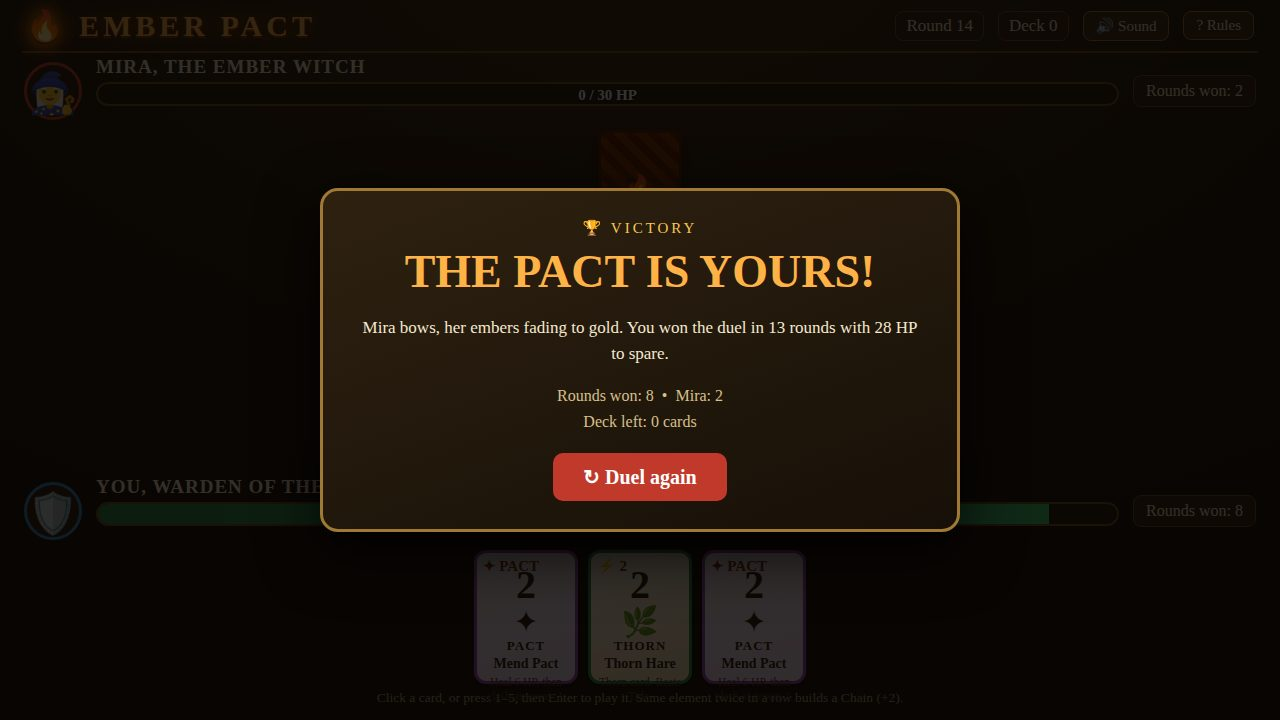
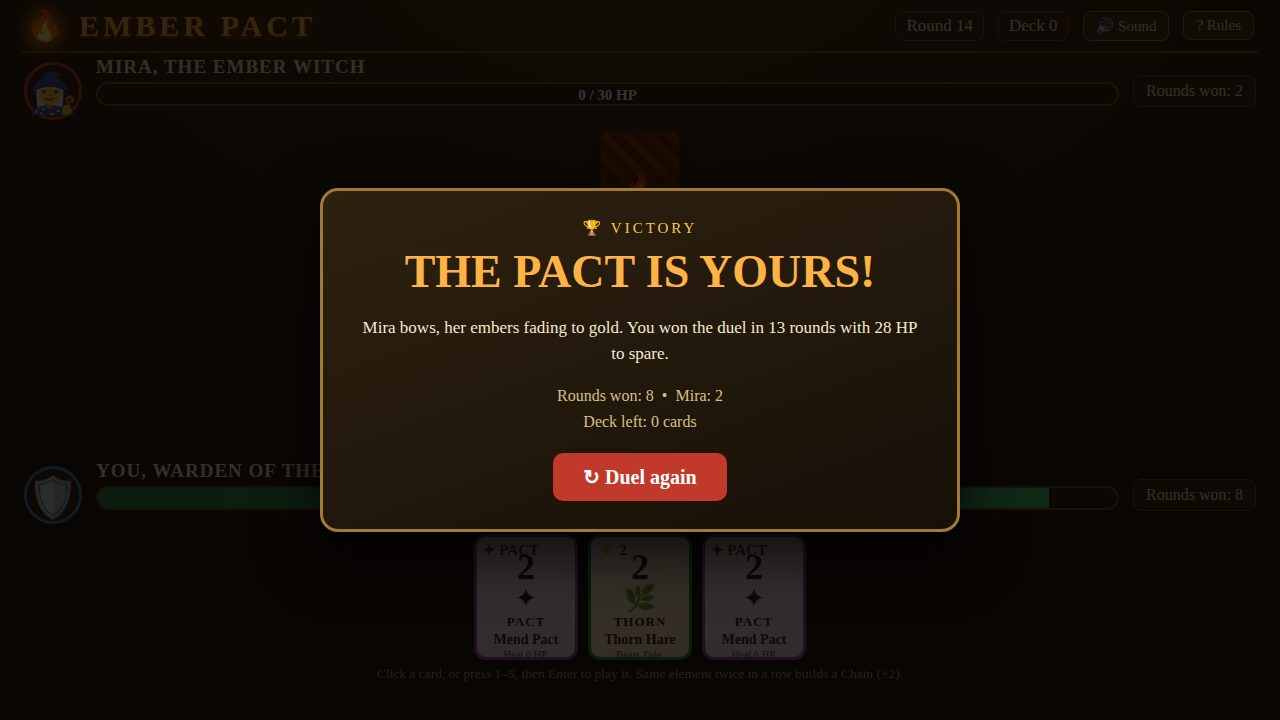
Polish for rank 1: play shot as cover, element-edge + ward-block clash lines, chain label, tighter card text

diff --git a/game/src/render.js b/game/src/render.js
@@ -2,7 +2,7 @@
 // Every card is a real DOM element with a readable power, element and cost text,
 // so the game stays legible at thumbnail size in a screenshot.
 
-import { ELEMENTS, describeCard } from './cards.js';
+import { ELEMENTS, describeCard, elementAdvantage } from './cards.js';
 
 const $ = (id) => document.getElementById(id);
 
@@ -41,9 +41,9 @@ export function renderAll(state, ui) {
   $('youScore').textContent = `Rounds won: ${state.you.wins}`;
   $('foeScore').textContent = `Rounds won: ${state.foe.wins}`;
   $('youStatus').textContent = state.you.ward ? '🛡 Ward up — next damage blocked'
-    : state.you.chainCount >= 2 ? `⛓ Chain x${state.you.chainCount} ${ELEMENTS[state.you.chainElement].name} — +2 next round` : '';
+    : state.you.chainCount >= 2 ? `Chain x${state.you.chainCount} ${ELEMENTS[state.you.chainElement].name} — +2 next round` : '';
   $('foeStatus').textContent = state.foe.ward ? '🛡 Ward up — next damage blocked'
-    : state.foe.chainCount >= 2 ? `⛓ Chain x${state.foe.chainCount} ${ELEMENTS[state.foe.chainElement].name} — +2 next round` : '';
+    : state.foe.chainCount >= 2 ? `Chain x${state.foe.chainCount} ${ELEMENTS[state.foe.chainElement].name} — +2 next round` : '';
   $('foeTell').textContent = ui.tell || '';
 
   const youHand = $('youHand');
@@ -76,7 +76,13 @@ export function showPlayed(state, report, ui) {
   youSlot.appendChild(cardElement(report.youCard, { played: true }));
   const winnerEl = report.winner === 'you' ? youSlot.firstChild : report.winner === 'foe' ? foeSlot.firstChild : null;
   if (winnerEl) winnerEl.classList.add('winner-glow');
-  $('clashDetail').textContent = `${report.youPower} vs ${report.foePower} — ${report.winner === 'you' ? 'You take the round!' : report.winner === 'foe' ? 'Mira takes the round!' : 'Dead heat!'}`;
+  const edge = elementAdvantage(report.youCard, report.foeCard);
+  const edgeText = edge > 0 ? ` — ${ELEMENTS[report.youCard.element].name} beats ${ELEMENTS[report.foeCard.element].name} (+3)!`
+    : edge < 0 ? ` — ${ELEMENTS[report.foeCard.element].name} beats ${ELEMENTS[report.youCard.element].name} (+3)!` : '';
+  $('clashDetail').textContent = `${report.youPower} vs ${report.foePower}${edgeText} ${report.winner === 'you' ? 'You take the round!' : report.winner === 'foe' ? 'Mira takes the round!' : 'Dead heat!'}`;
+  const chainSide = state.you.chainCount >= 2 ? 'you' : state.foe.chainCount >= 2 ? 'foe' : null;
+  $('chainLabel').textContent = chainSide === 'you' ? `Chain x${state.you.chainCount} ${ELEMENTS[state.you.chainElement].name} — +2 next round`
+    : chainSide === 'foe' ? `Mira's Chain x${state.foe.chainCount} ${ELEMENTS[state.foe.chainElement].name} — +2 next round` : '';
   ui.logLine = report.lines ? report.lines[0] : '';
   renderAll(state, ui);
 }

diff --git a/game/style.css b/game/style.css
@@ -34,7 +34,7 @@ body {
 .hand { display: flex; gap: 10px; justify-content: center; min-height: 122px; padding: 4px 0; }
 .foe-hand .card { transform: scale(.8); transform-origin: top center; }
 .card {
-  width: 104px; height: 134px; border-radius: 12px; border: 3px solid #d8c08a;
+  width: 104px; height: 126px; border-radius: 12px; border: 3px solid #d8c08a;
   background: linear-gradient(160deg, #fff8e7 0%, #f3e2b8 100%); color: #241a0c;
   display: flex; flex-direction: column; align-items: center; padding: 6px 4px;
   cursor: pointer; position: relative; user-select: none;
@@ -48,11 +48,11 @@ body {
 .card.back:hover { transform: none; box-shadow: 0 4px 10px rgba(0,0,0,.55); }
 .card.back .back-mark { font-size: 34px; margin-top: 44px; }
 .card .cost { position: absolute; top: 4px; left: 6px; font-size: 15px; font-weight: bold; color: #7a2e00; }
-.card .power { font-size: 40px; font-weight: bold; line-height: 1; margin-top: 6px; }
-.card .element { font-size: 30px; line-height: 1.1; }
+.card .power { font-size: 36px; font-weight: bold; line-height: 1; margin-top: 6px; }
+.card .element { font-size: 26px; line-height: 1.1; }
 .card .elname { font-size: 13px; font-weight: bold; letter-spacing: 1px; text-transform: uppercase; }
 .card .cardname { font-size: 14px; font-weight: bold; margin-top: 2px; text-align: center; }
-.card .cardtext { font-size: 11.5px; line-height: 1.25; text-align: center; color: #4a3520; margin-top: 3px; padding: 0 3px; }
+.card .cardtext { font-size: 10.5px; line-height: 1.2; text-align: center; color: #4a3520; margin-top: 1px; padding: 0 3px; }
 .card.el-ember { border-color: #e74c3c; }
 .card.el-tide { border-color: #2e86c1; }
 .card.el-thorn { border-color: #1e8449; }
@@ -60,7 +60,7 @@ body {
 
 #arena { display: flex; align-items: center; justify-content: center; gap: 26px; padding: 2px 0; }
 .played-slot {
-  width: 150px; height: 176px; border: 3px dashed #6b4a1f; border-radius: 14px;
+  width: 150px; height: 168px; border: 3px dashed #6b4a1f; border-radius: 14px;
   display: flex; align-items: center; justify-content: center; background: rgba(0,0,0,.25);
 }
 .played-slot .card { transform: scale(1.05); cursor: default; }

diff --git a/game/src/cards.js b/game/src/cards.js
@@ -9,10 +9,10 @@ export const ELEMENTS = {
 };
 
 export const PACT_CARDS = [
-  { id: 'mend', kind: 'pact', name: 'Mend Pact', power: 2, element: null, text: 'Heal 6 HP, then clash at power 2.' },
-  { id: 'ward', kind: 'pact', name: 'Ward Pact', power: 3, element: null, text: 'Block the next damage you would take.' },
-  { id: 'surge', kind: 'pact', name: 'Surge Pact', power: 4, element: null, text: 'Double your power this round.' },
-  { id: 'snatch', kind: 'pact', name: 'Snatch Pact', power: 5, element: null, text: 'If you win the round, draw 2 cards.' },
+  { id: 'mend', kind: 'pact', name: 'Mend Pact', power: 2, element: null, text: 'Heal 6 HP.' },
+  { id: 'ward', kind: 'pact', name: 'Ward Pact', power: 3, element: null, text: 'Block next damage.' },
+  { id: 'surge', kind: 'pact', name: 'Surge Pact', power: 4, element: null, text: 'Double your power.' },
+  { id: 'snatch', kind: 'pact', name: 'Snatch Pact', power: 5, element: null, text: 'Win: draw 2 cards.' },
 ];
 
 const ELEMENT_CARDS = [
@@ -64,7 +64,7 @@ export function buildDeck(rng) {
     const element = ['Spark Imp', 'Cinder Fox', 'Flame Drake', 'Ash Phoenix', 'Ember Knight', 'Coal Sprite'].includes(base.name)
       ? 'ember'
       : (['Tide Otter', 'Rain Heron', 'Wave Serpent', 'Storm Whale', 'Mist Kelpie', 'Pearl Crab'].includes(base.name) ? 'tide' : 'thorn');
-    deck.push({ uid: `c${serial++}`, kind: 'element', name: base.name, power: base.power, element, text: `${ELEMENTS[element].name} card. Beats ${ELEMENTS[ELEMENTS[element].beats].name}.` });
+    deck.push({ uid: `c${serial++}`, kind: 'element', name: base.name, power: base.power, element, text: `Beats ${ELEMENTS[ELEMENTS[element].beats].name}.` });
   }
   for (let round = 0; round < 3; round += 1) {
     for (const pact of PACT_CARDS) {

diff --git a/game/src/engine.js b/game/src/engine.js
@@ -131,9 +131,13 @@ export function playRound(state, youCard, foeCard) {
 export function clashLines(report) {
   const lines = [];
   if (report.youPower > report.foePower) {
-    lines.push(`Your ${report.youCard.name} (${report.youPower}) overpowers Mira's ${report.foeCard.name} (${report.foePower}) — Mira takes ${report.foeDamage}.`);
+    lines.push(report.foeDamage === 0
+      ? `Your ${report.youCard.name} (${report.youPower}) beats Mira's ${report.foeCard.name} (${report.foePower}) — but her Ward blocks it all!`
+      : `Your ${report.youCard.name} (${report.youPower}) overpowers Mira's ${report.foeCard.name} (${report.foePower}) — Mira takes ${report.foeDamage}.`);
   } else if (report.foePower > report.youPower) {
-    lines.push(`Mira's ${report.foeCard.name} (${report.foePower}) overpowers your ${report.youCard.name} (${report.youPower}) — you take ${report.youDamage}.`);
+    lines.push(report.youDamage === 0
+      ? `Mira's ${report.foeCard.name} (${report.foePower}) beats your ${report.youCard.name} (${report.youPower}) — but your Ward blocks it all!`
+      : `Mira's ${report.foeCard.name} (${report.foePower}) overpowers your ${report.youCard.name} (${report.youPower}) — you take ${report.youDamage}.`);
   } else {
     lines.push(`A dead heat at ${report.youPower} — both sides take 1.`);
   }
